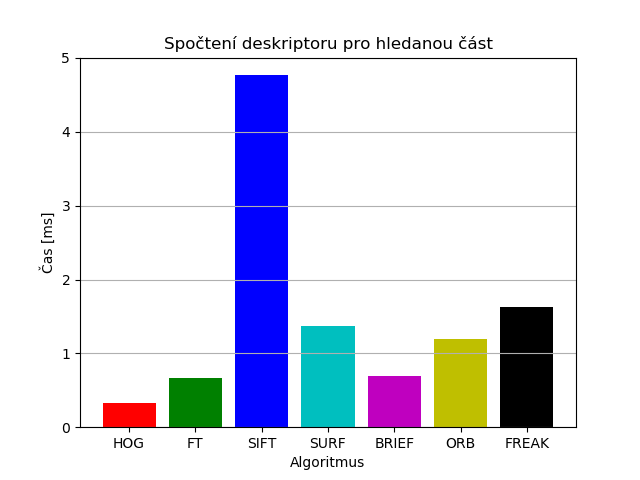
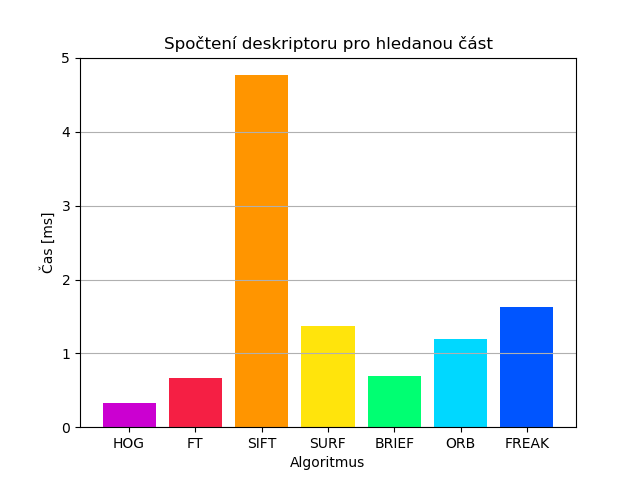
Beautified the chart colors

Changed region(s): [[0.1562, 0.1562, 0.875, 0.9062]]

diff --git a/src/scripts/charts/generateCharts.py b/src/scripts/charts/generateCharts.py
@@ -67,8 +67,7 @@ VARIABLES = [
     "descriptorImageSize",
     "accuracy"
 ]
-# default colors, can be hex RGB string
-COLORS = ["r", "g", "b", "c", "m", "y", "k"]
+COLORS = ["#cb00d1", "#f51f44", "#ff9500", "#ffe40c", "#00ff72", "#00d8ff", "#0055ff"]
 
 def getVariableValues(variableName, dataset = data.DATA_SINGLE):
     return list(dataset[variableName].values())
